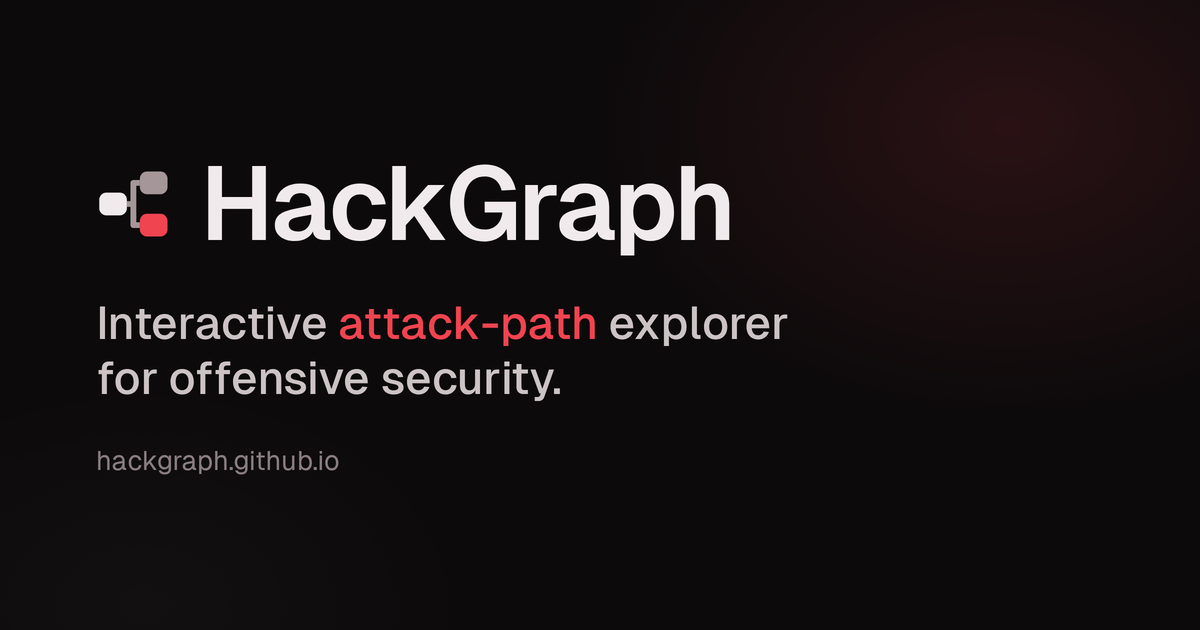
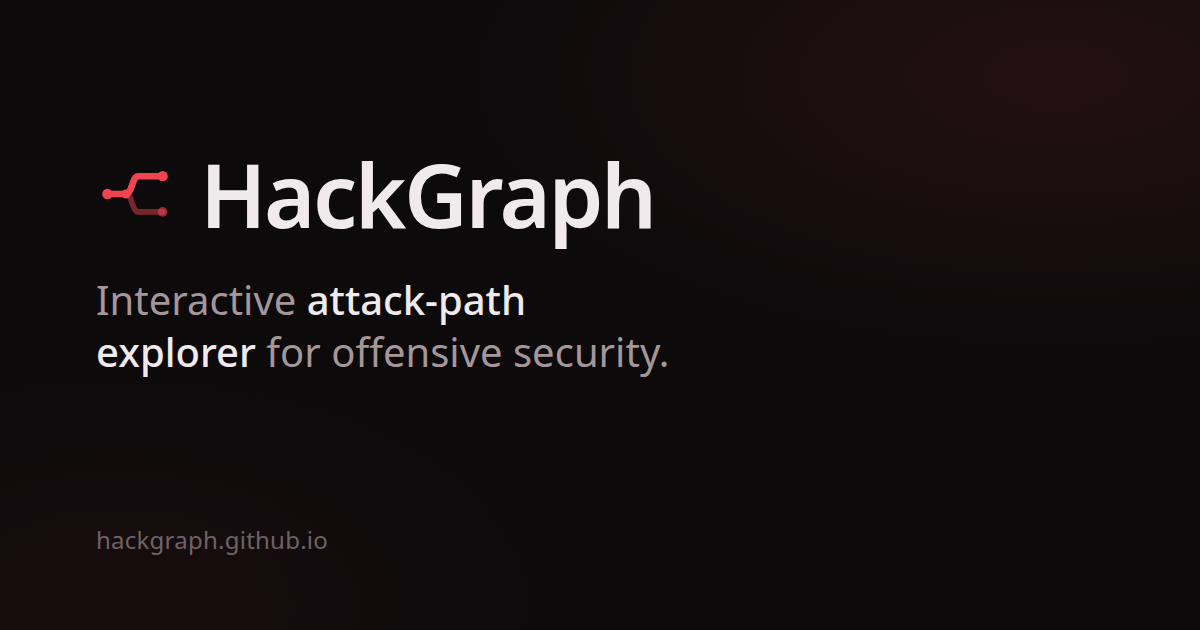
Sweep the repo: drop dead tooling, refresh the card, trim the README
tools/perf held two 100-line harnesses that waited on `.react-flow__node` at
localhost:4199. React Flow has been gone for weeks and that port went with the
Vite preview, so both would hang forever. Removed.

og-image.png still carried the old three-square logo, so every link shared
anywhere showed a mark the site no longer uses. Regenerated from the live app:
the SVG is read out of the running page rather than redrawn, so the card cannot
drift from the header again.

README, four bits of padding:
  - "There is no build and nothing to install. The repository is the site: ...
     so what you see locally is what ships." Three clauses for one fact.
  - "never the engine" said nothing to someone who has not read the layout.
  - "HackGraph is built on the work of the offensive-security community" opened
    the credits by crediting nobody.
  - "cited throughout and worth following on their own" - the second half is me
    telling the reader how to feel about a link.
313 words -> 278.

Also: the engine README still told you to run `npm test`, which has not existed
since the toolchain came out, and engine/build.mjs writes a dist/ that nothing
ignored.

llms.txt left alone deliberately. Its long technique lists read as padding but
that file is for crawlers, where the enumeration is the point.

Claude-Session: https://claude.ai/code/session_015SLciyAkUxd9JzvkzH2Crz

diff --git a/README.md b/README.md
@@ -28,8 +28,7 @@ Start from a foothold and expand one technique at a time toward Domain Admin, SY
 node tools/serve.mjs      # http://localhost:5173
 ```
 
-There is no build and nothing to install. The repository is the site: GitHub Pages serves
-these files as they are, so what you see locally is what ships.
+No build, nothing to install: GitHub Pages serves these files as they are.
 
 ```bash
 node --test                    # content lint, adapter tests, engine tests
@@ -39,11 +38,13 @@ node tools/check-refs.mjs      # check every reference URL still resolves
 
 ## Contributing
 
-The maps are plain data in `src/data/`, never the engine, so adding a technique or a whole new domain is just editing files. New maps appear in the header automatically. Run `node --test` before opening a PR, and `node tools/gen-reference.mjs` if you changed content.
+Maps are plain data in `src/data/`. Adding a technique, or a whole new map, means editing those files and nothing else; new maps appear in the header on their own.
+
+Before opening a PR run `node --test`, and `node tools/gen-reference.mjs` if you touched content.
 
 ## Acknowledgements
 
-HackGraph is built on the work of the offensive-security community. The mindmap-style format was inspired by the [Orange Cyberdefense mindmaps](https://github.com/Orange-Cyberdefense/ocd-mindmaps), and the techniques lean on these projects, which are cited throughout and worth following on their own:
+The mindmap format was inspired by the [Orange Cyberdefense mindmaps](https://github.com/Orange-Cyberdefense/ocd-mindmaps). The techniques lean on these projects, cited throughout:
 
 - [HackTricks](https://book.hacktricks.wiki/)
 - [The Hacker Recipes](https://www.thehacker.recipes/)
@@ -51,7 +52,7 @@ HackGraph is built on the work of the offensive-security community. The mindmap-
 - [BloodHound and SpecterOps research](https://bloodhound.specterops.io/)
 - [GTFOBins](https://gtfobins.github.io/) and [LOLBAS](https://lolbas-project.github.io/)
 
-Each technique also links its own primary sources and credits the tools it uses.
+Every technique also links its own primary sources and credits the tools it uses.
 
 ## License
 

diff --git a/engine/README.md b/engine/README.md
@@ -159,7 +159,7 @@ node build.mjs         # dist/index.html + one self-contained page per map
 node server.mjs        # dev server on :3001, no-cache
 ```
 
-Both suites also run from the host repo's `npm test`. `view-test.mjs` skips when jsdom
+Both suites also run from the host repo's `node --test`. `view-test.mjs` skips when jsdom
 is not installed.
 
 The engine is checked into HackGraph because that is the only thing using it, and stays
